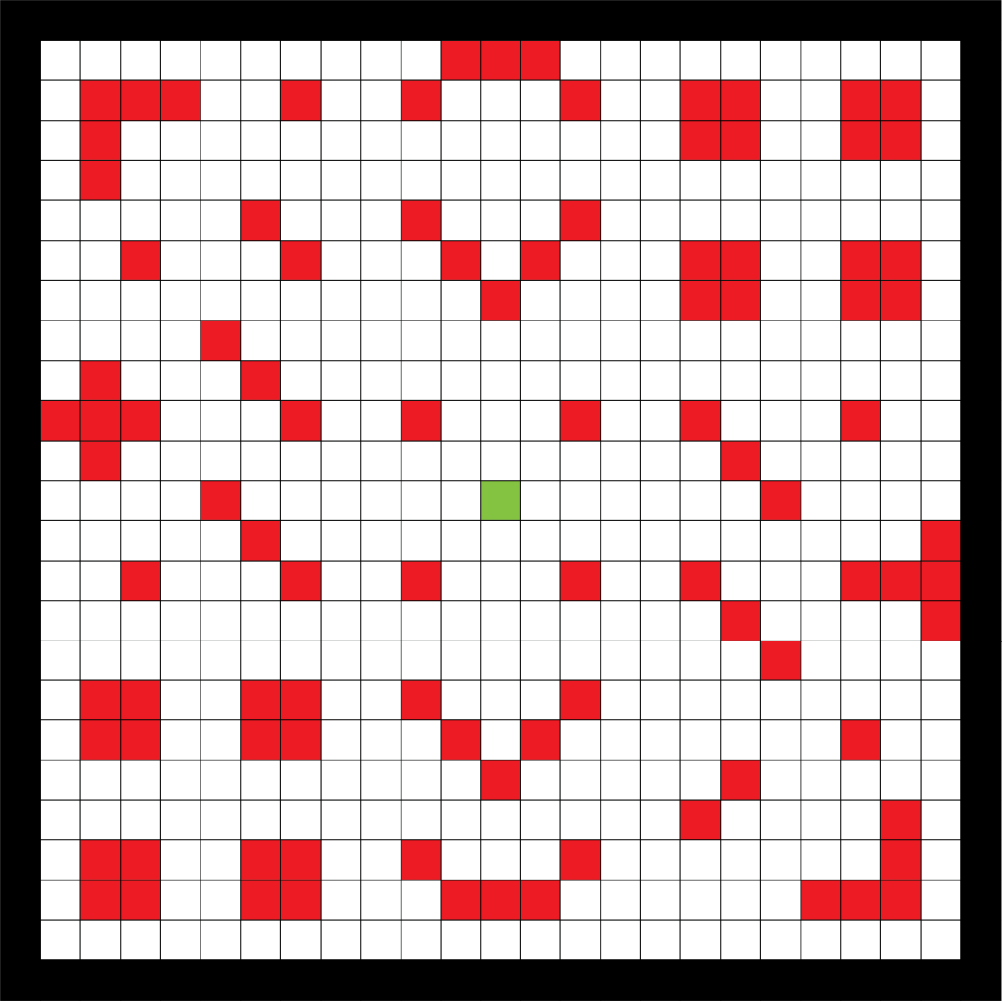
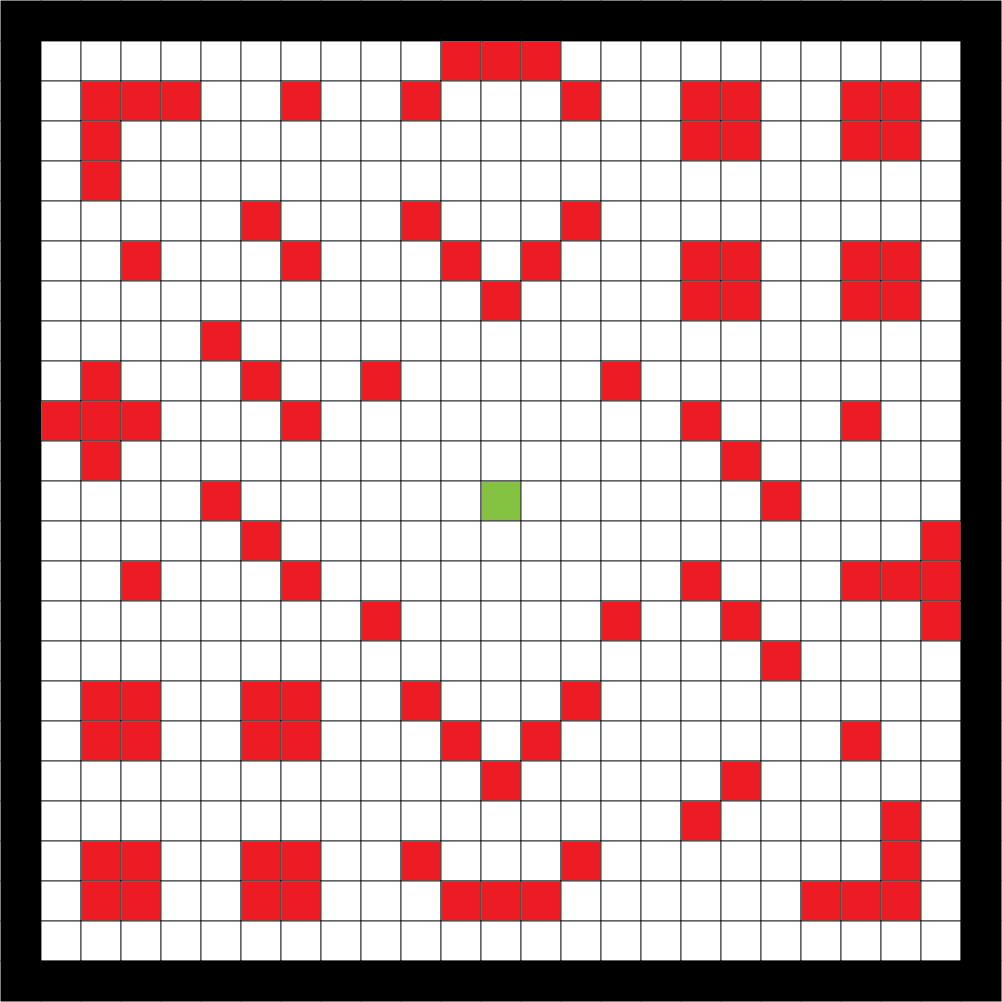
Changed map so doesn't conflict with starting positions

diff --git a/src/assets/utils.js b/src/assets/utils.js
@@ -48,13 +48,13 @@ function returnGameMap(num) {
                 3, 1, 1, 3, 1, 1, 1, 3, 1, 1, 1, 3, 1, 3, 1, 1, 1, 3, 3, 1, 1, 3, 3, 1, 3,
                 3, 1, 1, 1, 1, 1, 1, 1, 1, 1, 1, 1, 3, 1, 1, 1, 1, 3, 3, 1, 1, 3, 3, 1, 3,
                 3, 1, 1, 1, 1, 3, 1, 1, 1, 1, 1, 1, 1, 1, 1, 1, 1, 1, 1, 1, 1, 1, 1, 1, 3,
-                3, 1, 3, 1, 1, 1, 3, 1, 1, 1, 1, 1, 1, 1, 1, 1, 1, 1, 1, 1, 1, 1, 1, 1, 3,
-                3, 3, 3, 3, 1, 1, 1, 3, 1, 1, 3, 1, 1, 1, 3, 1, 1, 3, 1, 1, 1, 3, 1, 1, 3,
+                3, 1, 3, 1, 1, 1, 3, 1, 1, 3, 1, 1, 1, 1, 1, 3, 1, 1, 1, 1, 1, 1, 1, 1, 3,
+                3, 3, 3, 3, 1, 1, 1, 3, 1, 1, 1, 1, 1, 1, 1, 1, 1, 3, 1, 1, 1, 3, 1, 1, 3,
                 3, 1, 3, 1, 1, 1, 1, 1, 1, 1, 1, 1, 1, 1, 1, 1, 1, 1, 3, 1, 1, 1, 1, 1, 3,
                 3, 1, 1, 1, 1, 3, 1, 1, 1, 1, 1, 1, 1, 1, 1, 1, 1, 1, 1, 3, 1, 1, 1, 1, 3,
                 3, 1, 1, 1, 1, 1, 3, 1, 1, 1, 1, 1, 1, 1, 1, 1, 1, 1, 1, 1, 1, 1, 1, 3, 3,
-                3, 1, 1, 3, 1, 1, 1, 3, 1, 1, 3, 1, 1, 1, 3, 1, 1, 3, 1, 1, 1, 3, 3, 3, 3,
-                3, 1, 1, 1, 1, 1, 1, 1, 1, 1, 1, 1, 1, 1, 1, 1, 1, 1, 3, 1, 1, 1, 1, 3, 3,
+                3, 1, 1, 3, 1, 1, 1, 3, 1, 1, 1, 1, 1, 1, 1, 1, 1, 3, 1, 1, 1, 3, 3, 3, 3,
+                3, 1, 1, 1, 1, 1, 1, 1, 1, 3, 1, 1, 1, 1, 1, 3, 1, 1, 3, 1, 1, 1, 1, 3, 3,
                 3, 1, 1, 1, 1, 1, 1, 1, 1, 1, 1, 1, 1, 1, 1, 1, 1, 1, 1, 3, 1, 1, 1, 1, 3,
                 3, 1, 3, 3, 1, 1, 3, 3, 1, 1, 3, 1, 1, 1, 3, 1, 1, 1, 1, 1, 1, 1, 1, 1, 3,
                 3, 1, 3, 3, 1, 1, 3, 3, 1, 1, 1, 3, 1, 3, 1, 1, 1, 1, 1, 1, 1, 3, 1, 1, 3,
@@ -95,12 +95,12 @@ function returnGameMap(num) {
                 3, 1, 1, 1, 1, 1, 1, 1, 1, 1, 1, 1, 1, 1, 1, 1, 1, 1, 1, 1, 1, 1, 3, 1, 1, 1, 1, 3, 1, 1, 1, 1, 1, 1, 1, 1, 1, 1, 1, 3, 3, 1, 1, 1, 1, 1, 1, 1, 1, 3, // 19
                 3, 1, 1, 1, 1, 3, 3, 3, 1, 1, 1, 1, 3, 3, 3, 1, 1, 1, 1, 1, 1, 1, 3, 1, 1, 1, 1, 3, 1, 1, 1, 1, 1, 1, 1, 3, 1, 1, 1, 1, 1, 1, 1, 1, 3, 1, 1, 1, 1, 3, // 20
                 3, 1, 1, 1, 1, 1, 1, 3, 1, 1, 1, 1, 3, 1, 1, 1, 1, 1, 1, 1, 1, 3, 3, 1, 1, 1, 1, 3, 3, 1, 1, 1, 1, 1, 1, 3, 1, 1, 1, 1, 1, 1, 1, 1, 3, 1, 1, 1, 1, 3, // 21
-                3, 1, 1, 1, 1, 1, 1, 3, 1, 1, 1, 1, 3, 1, 1, 1, 1, 1, 1, 3, 3, 3, 3, 1, 1, 1, 1, 3, 3, 3, 3, 1, 1, 1, 1, 3, 3, 3, 1, 1, 1, 1, 3, 3, 3, 1, 1, 1, 1, 3, // 22
+                3, 1, 1, 1, 1, 1, 1, 3, 1, 1, 1, 1, 3, 1, 1, 1, 1, 1, 1, 3, 3, 3, 1, 1, 1, 1, 1, 1, 3, 3, 3, 1, 1, 1, 1, 3, 3, 3, 1, 1, 1, 1, 3, 3, 3, 1, 1, 1, 1, 3, // 22
                 3, 1, 1, 1, 1, 1, 1, 1, 1, 1, 1, 1, 1, 1, 1, 1, 1, 1, 1, 1, 1, 1, 1, 1, 1, 1, 1, 1, 1, 1, 1, 1, 1, 1, 1, 1, 1, 1, 1, 1, 1, 1, 1, 1, 1, 1, 1, 1, 1, 3, // 23
                 3, 3, 1, 1, 1, 1, 1, 1, 1, 1, 1, 1, 1, 1, 1, 1, 1, 1, 1, 1, 1, 1, 1, 1, 1, 1, 1, 1, 1, 1, 1, 1, 3, 1, 1, 1, 1, 1, 1, 1, 1, 1, 1, 1, 1, 1, 1, 1, 3, 3, // 24
                 3, 3, 1, 1, 1, 1, 1, 1, 1, 1, 1, 1, 1, 1, 1, 1, 1, 1, 1, 1, 1, 1, 1, 1, 1, 1, 1, 1, 1, 1, 1, 1, 1, 1, 1, 1, 1, 1, 1, 1, 1, 1, 1, 1, 1, 1, 1, 1, 3, 3, // 25
                 3, 1, 1, 1, 1, 1, 1, 1, 1, 1, 1, 1, 1, 1, 1, 1, 3, 1, 1, 1, 1, 1, 1, 1, 1, 1, 1, 1, 1, 1, 1, 1, 1, 1, 1, 1, 1, 1, 1, 1, 1, 1, 1, 1, 1, 1, 1, 1, 1, 3, // 26
-                3, 1, 1, 3, 1, 1, 1, 3, 1, 1, 1, 1, 3, 1, 1, 1, 1, 1, 1, 3, 3, 3, 3, 1, 1, 1, 1, 3, 3, 3, 3, 1, 1, 1, 1, 3, 3, 3, 1, 1, 1, 1, 3, 3, 3, 1, 1, 1, 1, 3, // 27
+                3, 1, 1, 3, 1, 1, 1, 3, 1, 1, 1, 1, 3, 1, 1, 1, 1, 1, 1, 3, 3, 3, 1, 1, 1, 1, 1, 1, 3, 3, 3, 1, 1, 1, 1, 3, 3, 3, 1, 1, 1, 1, 3, 3, 3, 1, 1, 1, 1, 3, // 27
                 3, 1, 1, 1, 1, 1, 1, 3, 1, 1, 1, 1, 3, 1, 1, 1, 1, 1, 1, 1, 1, 3, 3, 1, 1, 1, 1, 3, 3, 1, 1, 1, 1, 1, 1, 3, 1, 1, 1, 1, 1, 1, 1, 1, 3, 1, 1, 1, 1, 3, // 28
                 3, 1, 1, 1, 1, 3, 3, 3, 1, 1, 1, 1, 3, 3, 3, 1, 1, 1, 1, 1, 1, 1, 3, 1, 1, 1, 1, 3, 1, 1, 1, 1, 1, 1, 1, 3, 1, 1, 1, 1, 1, 1, 1, 1, 3, 1, 1, 1, 1, 3, // 29
                 3, 1, 1, 1, 1, 1, 1, 1, 1, 1, 1, 1, 1, 1, 1, 1, 1, 1, 3, 1, 1, 1, 3, 1, 1, 1, 1, 3, 1, 1, 1, 1, 1, 1, 1, 1, 1, 1, 1, 1, 1, 1, 1, 1, 1, 1, 1, 3, 1, 3, // 30
@@ -178,14 +178,14 @@ function returnGameMap(num) {
                 3, 1, 1, 1, 1, 1, 1, 1, 1, 1, 1, 1, 1, 1, 1, 1, 1, 1, 1, 1, 1, 3, 3, 3, 3, 3, 3, 3, 3, 3, 3, 1, 1, 1, 1, 1, 1, 3, 1, 1, 3, 1, 1, 1, 1, 1, 1, 1, 1, 3, 3, 1, 1, 1, 1, 1, 1, 1, 1, 1, 1, 1, 1, 1, 1, 1, 1, 1, 3, 1, 1, 3, 3, 1, 1, 3, 3, 1, 1, 3, 1, 1, 1, 1, 1, 1, 1, 3, 3, 1, 1, 1, 1, 1, 1, 1, 1, 1, 1, 3, // 43
                 3, 1, 1, 1, 1, 1, 1, 1, 1, 1, 1, 1, 1, 1, 1, 3, 1, 1, 1, 1, 3, 3, 3, 3, 3, 3, 3, 3, 3, 3, 3, 3, 1, 1, 1, 1, 1, 1, 1, 1, 1, 1, 1, 1, 1, 1, 1, 1, 1, 1, 1, 1, 1, 1, 1, 1, 1, 1, 1, 1, 1, 1, 1, 1, 1, 1, 1, 1, 3, 1, 3, 3, 3, 3, 3, 3, 3, 3, 1, 3, 1, 1, 1, 1, 1, 1, 1, 1, 1, 1, 1, 1, 1, 1, 1, 1, 1, 1, 1, 3, // 44
                 3, 1, 1, 1, 1, 1, 1, 1, 1, 1, 1, 1, 1, 1, 1, 1, 1, 1, 1, 3, 3, 3, 3, 3, 1, 1, 3, 3, 3, 3, 1, 1, 3, 1, 1, 1, 1, 1, 1, 1, 1, 1, 3, 1, 1, 1, 1, 1, 1, 1, 1, 1, 1, 1, 1, 1, 1, 3, 1, 1, 1, 1, 1, 1, 1, 1, 1, 1, 3, 1, 3, 3, 3, 3, 3, 3, 3, 3, 1, 3, 1, 1, 1, 1, 1, 1, 1, 1, 1, 1, 1, 1, 1, 1, 1, 1, 1, 1, 1, 3, // 45
-                3, 1, 1, 1, 1, 1, 1, 1, 1, 1, 1, 3, 1, 1, 1, 1, 1, 1, 1, 3, 3, 3, 3, 3, 1, 1, 3, 3, 3, 3, 1, 1, 3, 1, 1, 1, 1, 1, 1, 1, 1, 1, 1, 1, 1, 1, 1, 1, 1, 1, 1, 1, 1, 1, 1, 1, 1, 1, 1, 1, 1, 1, 1, 1, 1, 1, 1, 3, 1, 1, 3, 3, 3, 3, 3, 3, 3, 3, 1, 1, 3, 1, 1, 3, 1, 1, 1, 1, 1, 1, 1, 1, 1, 1, 1, 1, 1, 1, 1, 3, // 46
-                3, 1, 3, 3, 3, 3, 1, 1, 1, 1, 1, 1, 1, 1, 1, 1, 1, 1, 3, 3, 3, 3, 3, 3, 3, 3, 3, 3, 3, 3, 1, 1, 1, 3, 1, 1, 1, 1, 1, 1, 1, 1, 1, 1, 1, 1, 1, 3, 1, 1, 1, 1, 3, 1, 1, 1, 1, 1, 1, 1, 1, 1, 1, 1, 1, 1, 1, 3, 1, 1, 1, 3, 3, 3, 3, 3, 3, 1, 1, 1, 3, 1, 1, 1, 3, 1, 1, 1, 3, 1, 1, 1, 1, 1, 3, 3, 3, 3, 1, 3, // 47
+                3, 1, 1, 1, 1, 1, 1, 1, 1, 1, 1, 3, 1, 1, 1, 1, 1, 1, 1, 3, 3, 3, 3, 3, 1, 1, 3, 3, 3, 3, 1, 1, 3, 1, 1, 1, 1, 1, 1, 1, 1, 1, 1, 1, 1, 1, 3, 1, 1, 1, 1, 1, 1, 3, 1, 1, 1, 1, 1, 1, 1, 1, 1, 1, 1, 1, 1, 3, 1, 1, 3, 3, 3, 3, 3, 3, 3, 3, 1, 1, 3, 1, 1, 3, 1, 1, 1, 1, 1, 1, 1, 1, 1, 1, 1, 1, 1, 1, 1, 3, // 46
+                3, 1, 3, 3, 3, 3, 1, 1, 1, 1, 1, 1, 1, 1, 1, 1, 1, 1, 3, 3, 3, 3, 3, 3, 3, 3, 3, 3, 3, 3, 1, 1, 1, 3, 1, 1, 1, 1, 1, 1, 1, 1, 1, 1, 1, 1, 1, 1, 1, 1, 1, 1, 1, 1, 1, 1, 1, 1, 1, 1, 1, 1, 1, 1, 1, 1, 1, 3, 1, 1, 1, 3, 3, 3, 3, 3, 3, 1, 1, 1, 3, 1, 1, 1, 3, 1, 1, 1, 3, 1, 1, 1, 1, 1, 3, 3, 3, 3, 1, 3, // 47
                 3, 1, 1, 3, 1, 1, 1, 1, 3, 1, 1, 1, 1, 3, 1, 1, 1, 1, 3, 3, 3, 3, 3, 3, 3, 3, 3, 3, 3, 1, 1, 1, 1, 3, 1, 1, 1, 3, 1, 1, 1, 1, 3, 3, 1, 1, 1, 1, 1, 1, 1, 1, 1, 1, 1, 1, 3, 3, 1, 1, 1, 1, 1, 3, 1, 1, 1, 3, 1, 1, 1, 1, 3, 3, 3, 3, 1, 1, 1, 1, 3, 1, 1, 1, 1, 1, 1, 1, 1, 1, 1, 1, 1, 1, 1, 1, 3, 1, 1, 3, // 48
                 3, 1, 1, 3, 1, 1, 1, 1, 1, 1, 1, 1, 1, 1, 1, 1, 1, 1, 3, 3, 3, 3, 3, 3, 3, 3, 3, 3, 1, 1, 1, 1, 1, 3, 1, 1, 1, 1, 1, 1, 1, 1, 3, 3, 1, 1, 1, 1, 1, 1, 1, 1, 1, 1, 1, 1, 3, 3, 1, 1, 1, 1, 1, 1, 1, 1, 1, 3, 1, 1, 1, 1, 1, 3, 3, 1, 1, 1, 1, 1, 3, 1, 1, 1, 1, 1, 1, 1, 1, 1, 1, 3, 1, 1, 1, 1, 3, 1, 1, 3, // 49
                 3, 1, 1, 3, 1, 1, 1, 1, 1, 1, 1, 3, 1, 1, 1, 1, 1, 1, 3, 3, 3, 3, 3, 3, 3, 3, 3, 1, 1, 1, 1, 1, 1, 3, 1, 1, 1, 1, 1, 1, 1, 1, 3, 3, 1, 1, 1, 1, 1, 1, 1, 1, 1, 1, 1, 1, 3, 3, 1, 1, 1, 1, 1, 1, 1, 1, 1, 3, 1, 1, 1, 1, 1, 1, 1, 1, 1, 1, 1, 1, 3, 1, 1, 1, 1, 1, 1, 1, 1, 1, 1, 3, 1, 1, 1, 1, 3, 1, 1, 3, // 50
                 3, 1, 1, 3, 1, 1, 1, 1, 1, 1, 1, 1, 1, 1, 1, 1, 1, 1, 3, 3, 3, 3, 3, 1, 1, 1, 1, 1, 1, 1, 1, 1, 1, 3, 1, 1, 1, 1, 1, 1, 1, 1, 3, 3, 1, 1, 1, 1, 1, 1, 1, 1, 1, 1, 1, 1, 3, 3, 1, 1, 1, 1, 1, 3, 1, 1, 1, 3, 1, 1, 1, 3, 3, 3, 3, 3, 3, 1, 1, 1, 3, 1, 1, 1, 1, 1, 1, 1, 1, 1, 1, 3, 1, 1, 1, 1, 3, 1, 1, 3, // 51
-                3, 1, 3, 3, 3, 3, 1, 1, 1, 1, 1, 1, 1, 1, 1, 1, 1, 1, 3, 3, 3, 3, 1, 1, 1, 1, 1, 1, 1, 1, 1, 1, 1, 3, 1, 1, 1, 3, 1, 1, 1, 1, 1, 1, 1, 1, 1, 3, 1, 1, 1, 1, 3, 1, 1, 1, 1, 1, 1, 1, 1, 1, 1, 1, 1, 1, 1, 1, 3, 3, 3, 1, 3, 1, 1, 3, 1, 3, 3, 3, 1, 1, 1, 1, 1, 3, 3, 1, 1, 1, 1, 3, 1, 1, 3, 3, 3, 3, 1, 3, // 52
-                3, 1, 1, 1, 1, 1, 1, 1, 1, 1, 1, 1, 1, 1, 1, 1, 1, 1, 1, 3, 3, 3, 1, 1, 1, 1, 3, 3, 1, 1, 1, 1, 3, 1, 1, 1, 1, 1, 1, 1, 1, 1, 1, 1, 1, 1, 1, 1, 1, 1, 1, 1, 1, 1, 1, 1, 1, 1, 1, 1, 1, 1, 1, 1, 1, 1, 1, 1, 1, 3, 1, 1, 3, 1, 1, 3, 1, 1, 3, 1, 1, 1, 1, 1, 1, 1, 3, 3, 1, 1, 1, 1, 1, 1, 1, 1, 1, 1, 1, 3, // 53
+                3, 1, 3, 3, 3, 3, 1, 1, 1, 1, 1, 1, 1, 1, 1, 1, 1, 1, 3, 3, 3, 3, 1, 1, 1, 1, 1, 1, 1, 1, 1, 1, 1, 3, 1, 1, 1, 3, 1, 1, 1, 1, 1, 1, 1, 1, 1, 1, 1, 1, 1, 1, 1, 1, 1, 1, 1, 1, 1, 1, 1, 1, 1, 1, 1, 1, 1, 1, 3, 3, 3, 1, 3, 1, 1, 3, 1, 3, 3, 3, 1, 1, 1, 1, 1, 3, 3, 1, 1, 1, 1, 3, 1, 1, 3, 3, 3, 3, 1, 3, // 52
+                3, 1, 1, 1, 1, 1, 1, 1, 1, 1, 1, 1, 1, 1, 1, 1, 1, 1, 1, 3, 3, 3, 1, 1, 1, 1, 3, 3, 1, 1, 1, 1, 3, 1, 1, 1, 1, 1, 1, 1, 1, 1, 1, 1, 1, 1, 3, 1, 1, 1, 1, 1, 1, 3, 1, 1, 1, 1, 1, 1, 1, 1, 1, 1, 1, 1, 1, 1, 1, 3, 1, 1, 3, 1, 1, 3, 1, 1, 3, 1, 1, 1, 1, 1, 1, 1, 3, 3, 1, 1, 1, 1, 1, 1, 1, 1, 1, 1, 1, 3, // 53
                 3, 1, 1, 1, 1, 1, 1, 1, 1, 1, 1, 1, 1, 1, 1, 1, 1, 1, 1, 3, 3, 3, 1, 1, 1, 1, 3, 3, 1, 1, 1, 3, 3, 1, 1, 1, 1, 1, 1, 1, 1, 1, 3, 1, 1, 1, 1, 1, 1, 1, 1, 1, 1, 1, 1, 1, 1, 3, 1, 1, 1, 1, 1, 1, 1, 1, 1, 1, 1, 3, 1, 1, 1, 1, 1, 1, 1, 1, 3, 1, 1, 1, 1, 1, 1, 1, 1, 1, 1, 1, 1, 1, 1, 1, 1, 1, 1, 1, 1, 3, // 54
                 3, 1, 1, 1, 1, 1, 1, 1, 1, 1, 1, 1, 1, 1, 1, 1, 1, 1, 1, 1, 3, 3, 3, 1, 1, 1, 1, 1, 1, 1, 3, 3, 1, 1, 1, 1, 1, 1, 1, 1, 1, 1, 1, 1, 1, 1, 1, 1, 1, 1, 1, 1, 1, 1, 1, 1, 1, 1, 1, 1, 1, 1, 1, 1, 1, 1, 1, 1, 1, 1, 3, 1, 1, 1, 1, 1, 1, 3, 1, 1, 1, 1, 1, 1, 1, 1, 1, 1, 1, 1, 1, 3, 1, 1, 1, 1, 1, 3, 1, 3, // 55
                 3, 1, 1, 1, 1, 1, 1, 1, 1, 3, 3, 1, 1, 1, 1, 1, 1, 1, 1, 1, 1, 3, 3, 3, 3, 1, 1, 1, 1, 3, 3, 1, 1, 1, 1, 1, 1, 1, 1, 1, 1, 1, 1, 1, 1, 1, 1, 1, 1, 3, 3, 1, 1, 1, 1, 1, 1, 1, 1, 1, 1, 1, 1, 1, 1, 3, 1, 1, 1, 1, 1, 3, 3, 3, 3, 3, 3, 1, 1, 1, 1, 1, 1, 3, 3, 3, 1, 1, 1, 1, 3, 3, 1, 1, 1, 1, 1, 1, 1, 3, // 56

diff --git a/src/Menu/Instructions.jsx b/src/Menu/Instructions.jsx
@@ -103,11 +103,11 @@ class Instructions extends Component {
                             left on the clock.</p>
                             <h2>Maps:</h2>
                             <h5>Small</h5>
-                            <img src={SmallMap}></img><br />
+                            <img src={SmallMap} alt="Small Map"></img><br />
                             <h5>Medium</h5>
-                            <img src={MediumMap}></img><br />
+                            <img src={MediumMap} alt="Medium Map"></img><br />
                             <h5>Large</h5>
-                            <img src={LargeMap}></img><br />
+                            <img src={LargeMap} alt="Large Map"></img><br />
                         </div>
                     </div>
                 </div>
